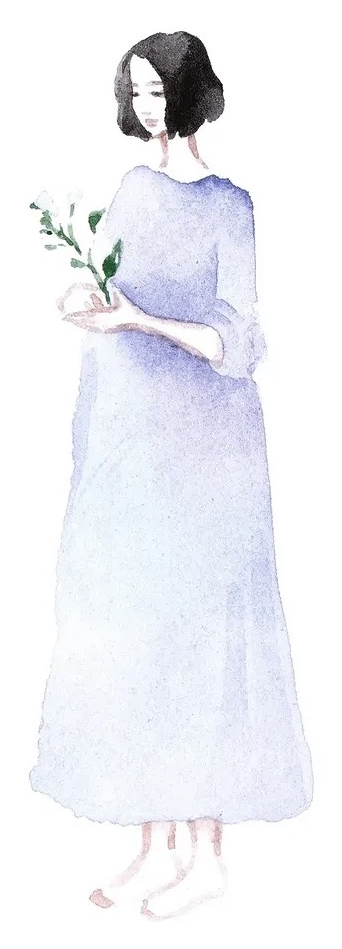
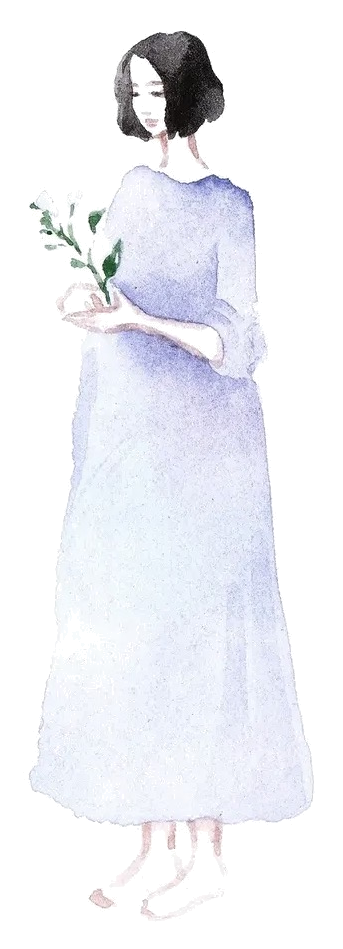
Center Recall to Life illustration

diff --git a/assets/css/studio.css b/assets/css/studio.css
@@ -4484,6 +4484,10 @@ figure {
   margin: clamp(28px, 4vw, 58px) 0 0 auto;
 }
 
+.writing-wind-poem-artwork-recall {
+  margin: clamp(28px, 4vw, 58px) auto 0;
+}
+
 .writing-wind-contact-details {
   display: grid;
   gap: 18px;
